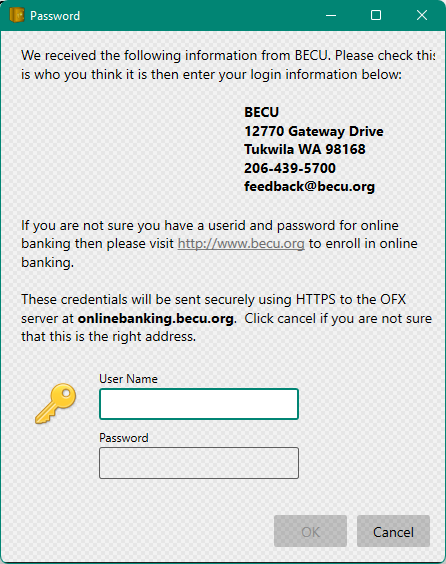
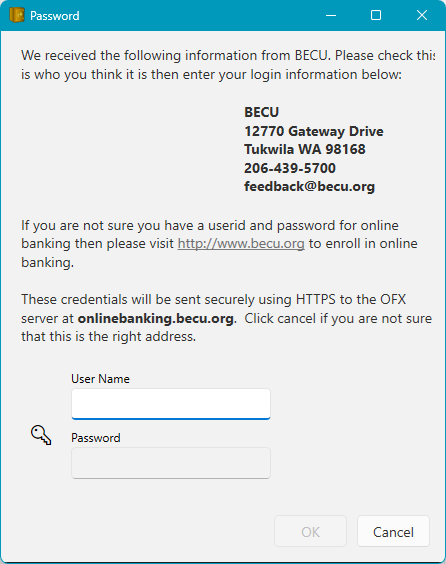
Fix OFX parsing issue so that Citibank VISA cards Connect dialog works properly. Fix online banking documentation & screenshots

diff --git a/Source/WPF/MyMoney/Dialogs/OnlineAccountDialog.xaml b/Source/WPF/MyMoney/Dialogs/OnlineAccountDialog.xaml
@@ -14,8 +14,8 @@
         Title="Online Account"  
         WindowStartupLocation="CenterOwner" 
         WindowStyle="ToolWindow"
-        SizeToContent="WidthAndHeight" 
-        MinWidth="700"
+        SizeToContent="Height" 
+        MinWidth="700" Width="850"
         d:DesignHeight="600" d:DesignWidth="900">
 
     <Window.Resources>

diff --git a/Source/WPF/MyMoney/Ofx/Ofx.cs b/Source/WPF/MyMoney/Ofx/Ofx.cs
@@ -6,7 +6,6 @@ using System.ComponentModel;
 using System.Diagnostics;
 using System.IO;
 using System.Linq;
-using System.Net;
 using System.Net.Http;
 using System.Net.Http.Headers;
 using System.Net.NetworkInformation;
@@ -348,7 +347,7 @@ namespace Walkabout.Ofx
             settings.ProhibitDtd = false;
 #pragma warning restore 618
             settings.ValidationType = ValidationType.None;
-            using (XmlReader reader = new StringTrimmingXmlReader(XmlReader.Create(fs, settings)))
+            using (XmlReader reader = XmlReader.Create(fs, settings))
             {
                 return XDocument.Load(reader);
             }
@@ -1025,43 +1024,6 @@ NEWFILEUID:{1}
             }
         }
 
-        private string RemoveIndents(string msg)
-        {
-            StringBuilder sb = new StringBuilder();
-            foreach (string line in msg.Split('\n'))
-            {
-                sb.Append(line.Trim());
-                sb.Append("\n");
-            }
-            return sb.ToString();
-        }
-
-        private static string GetHttpHeaders(HttpWebResponse response)
-        {
-            string headers = string.Empty;
-            WebHeaderCollection col = response.Headers;
-            foreach (string key in col.AllKeys)
-            {
-                headers += key + "=" + col[key] + "<br/>";
-            }
-            return headers;
-        }
-
-        private static string GetResponseBody(HttpWebResponse resp)
-        {
-            try
-            {
-                using (StreamReader sr = new StreamReader(resp.GetResponseStream()))
-                {
-                    return sr.ReadToEnd();
-                }
-            }
-            catch
-            {
-                return null;
-            }
-        }
-
         private static void EnsurePathExists(string path)
         {
             if (!Directory.Exists(path))
@@ -1310,6 +1272,7 @@ NEWFILEUID:{1}
         {
             try
             {
+                StripWhitespace(doc);
                 OFX ofx;
                 XmlSerializer s = new XmlSerializer(typeof(OFX));
                 using (XmlReader r = XmlReader.Create(new StringReader(doc.ToString())))
@@ -1838,8 +1801,22 @@ NEWFILEUID:{1}
             return null;
         }
 
+        private static void StripWhitespace(XDocument doc)
+        {
+            foreach (var node in doc.DescendantNodes())
+            {
+                if (node is XText t)
+                {
+                    t.Value = t.Value.Trim();
+                }
+            }
+        }
+
         public void ProcessResponse(XDocument doc, OfxDownloadData results)
         {
+            // So we don't have to do a .Trim() on every single selected value when parsing the response.
+            StripWhitespace(doc);
+
             XElement root = doc.Root;
             if (root == null || root.Name.LocalName != "OFX")
             {
@@ -1869,7 +1846,7 @@ NEWFILEUID:{1}
                 e = doc.SelectElement("OFX/SIGNONMSGSRSV1/SONRS/STATUS/MESSAGE");
                 if (e != null)
                 {
-                    message += e.Value.Trim();
+                    message += e.Value;
                     results.AddError(this.OnlineAccount, this.Account, message);
                 }
                 return;
@@ -1920,7 +1897,7 @@ Please save the log file '{0}' so we can implement this", GetLogFileLocation(doc
                     e = child.SelectElement("*/STATUS/MESSAGE");
                     if (e != null)
                     {
-                        message += e.Value.Trim();
+                        message += e.Value;
                         results.AddError(this.OnlineAccount, this.Account, message);
                     }
                 }
@@ -3472,14 +3449,14 @@ Please save the log file '{0}' so we can implement this", GetLogFileLocation(doc
             if (statusElement != null)
             {
                 XElement sc = statusElement.Element("CODE");
-                if (sc != null && sc.Value.Trim() != "0")
+                if (sc != null && sc.Value != "0")
                 {
                     string msg = (a == null) ? string.Empty : a.Name + ": ";
                     XElement severity = statusElement.Element("SEVERITY");
                     string reason = null;
                     if (severity != null)
                     {
-                        reason = severity.Value?.Trim();
+                        reason = severity.Value;
                     }
                     XElement message = statusElement.Element("MESSAGE");
                     if (message != null)
@@ -3489,7 +3466,7 @@ Please save the log file '{0}' so we can implement this", GetLogFileLocation(doc
                             reason += ", ";
                         }
 
-                        reason += message.Value?.Trim();
+                        reason += message.Value;
                     }
                     return msg + reason;
                 }
@@ -3829,107 +3806,5 @@ Please save the log file '{0}' so we can implement this", GetLogFileLocation(doc
                 HelpLink = challengeLog
             });
         }
-
-
     }
-
-    internal class StringTrimmingXmlReader : XmlReader
-    {
-        private readonly XmlReader inner;
-        public StringTrimmingXmlReader(XmlReader inner)
-        {
-            this.inner = inner;
-        }
-
-        protected override void Dispose(bool disposing)
-        {
-            this.inner.Dispose();
-            base.Dispose(disposing);
-        }
-
-        public override XmlNodeType NodeType => this.inner.NodeType;
-
-        public override string LocalName => this.inner.LocalName;
-
-        public override string NamespaceURI => this.inner.NamespaceURI;
-
-        public override string Prefix => this.inner.Prefix;
-
-        public override string Value => this.inner.Value?.Trim();
-
-        public override int Depth => this.inner.Depth;
-
-        public override string BaseURI => this.inner.BaseURI;
-
-        public override bool IsEmptyElement => this.inner.IsEmptyElement;
-
-        public override int AttributeCount => this.inner.AttributeCount;
-
-        public override bool EOF => this.inner.EOF;
-
-        public override ReadState ReadState => this.inner.ReadState;
-
-        public override XmlNameTable NameTable => this.inner.NameTable;
-
-        public override string GetAttribute(string name)
-        {
-            return this.inner.GetAttribute(name);
-        }
-
-        public override string GetAttribute(string name, string namespaceURI)
-        {
-            return this.inner.GetAttribute(name, namespaceURI);
-        }
-
-        public override string GetAttribute(int i)
-        {
-            return this.inner.GetAttribute(i);
-        }
-
-        public override string LookupNamespace(string prefix)
-        {
-            return this.inner.LookupNamespace(prefix);
-        }
-
-        public override bool MoveToAttribute(string name)
-        {
-            return this.inner.MoveToAttribute(name);
-        }
-
-        public override bool MoveToAttribute(string name, string ns)
-        {
-            return this.inner.MoveToAttribute(name, ns);
-        }
-
-        public override bool MoveToElement()
-        {
-            return this.inner.MoveToElement();
-        }
-
-        public override bool MoveToFirstAttribute()
-        {
-            return this.inner.MoveToFirstAttribute();
-        }
-
-        public override bool MoveToNextAttribute()
-        {
-            return this.inner.MoveToNextAttribute();
-        }
-
-        public override bool Read()
-        {
-            return this.inner.Read();
-        }
-
-        public override bool ReadAttributeValue()
-        {
-            return this.inner.ReadAttributeValue();
-        }
-
-        public override void ResolveEntity()
-        {
-            this.inner.ResolveEntity();
-        }
-    }
-
 }

diff --git a/Source/WPF/Version/Version.cs b/Source/WPF/Version/Version.cs
@@ -6,5 +6,5 @@ using System.Reflection;
 // And also sync this with the MSIX package manifest in
 // ~\MyMoney.Net\Source\WPF\MoneyPackage\Package.appxmanifest
 
-[assembly: AssemblyVersion("2.1.0.2")]
-[assembly: AssemblyFileVersion("2.1.0.2")]
+[assembly: AssemblyVersion("2.1.0.3")]
+[assembly: AssemblyFileVersion("2.1.0.3")]

diff --git a/docs/Accounts/OnlineBanking.md b/docs/Accounts/OnlineBanking.md
@@ -38,11 +38,15 @@ If you enter the right authentication information then you should see your onlin
 
 ![](../Images/Online%20Banking5.png)
 
-![](../Images/Online%20Banking6.png) ![](../Images/Online%20Banking7.png)
 
-The blue question mark means the account numbers didn't match any of your existing accounts.
-Click this question mark button to add this account to your list of accounts. 
+The question mark icon means the account number didn't match any of your existing accounts. Click
+this question mark button to find the matching account or add this account to your list of accounts.
+
+![](../Images/Online%20Banking6.png)
+
 If the account was found in your local database you will see a green check mark instead:
+
+![](../Images/Online%20Banking7.png)
 
 If you were expecting a green check mark, but instead see a blue question mark for a given account, then it means your account numbers don't match what was downloaded from your bank. You can go back to your Account Properties to fix your account number, then try again.  Sometimes a financial institution might add or remove a dash in the account number.   See [Setup Accounts](SetupAccounts.md)
 
@@ -56,27 +60,21 @@ To set this up, edit the "Name" field of the OnlineAccount dialog so it is uniqu
 When you click Connect you will then be prompted for new credentials, type in the different credentials. 
 
 **Deselecting Accounts**
-Sometimes (for example, when the accounts are linked at the financial institution) the online bank will return both accounts again when you login with the new credentials and so you will see two green checkmarks like this:
+
+You can remove the online banking connection for a given account by clicking the checkmark
+icon to toggle the state to "disconnected" and this still stop that account from receiving
+future updates when you synchronize online accounts:
 
 ![](../Images/Online%20Banking9.png)
 
-But you may not want to do this.  If you used your work credentials, you may want to de-select your personal AMEX card by clicking the green checkmark.  You will then see this :
-
-![](../Images/Online%20Banking10.png)
-
-This will ensure that it doesn’t get confused and try and download your personal AMEX info using your work AMEX credentials.
-
 ### Downloading Statements
 
-Now when you click the download button the following tab appears at the bottom section of the app:
+Now when you click the download button the following tab appears at the bottom section of the app
+and when complete it tells you how many transactions were downloaded:
 
 ![](../Images/Online%20Banking11.png)
 
-And when complete it tells you how many transactions were downloaded:
-
-![](../Images/Online%20Banking12.png)
-
-You can click the row titled "Downloaded 1 new transactions" to see just those transactions that were downloaded.  From there you can add missing [Category](../Basics/Categories.md) information.  They will stay **bold**  as a reminder that you need to review them .  A good practice is to only accept the ones you have receipts for.  For example, I recently found a transaction for several thousand dollars for the purchase of a painting in Denmark on my credit card.  I had no recollection of this transaction, nor any receipt, and was able to quickly inform my credit card company and start the fraud investigation the same day the charge appeared in my downloaded transactions.  The bold highlighting helps make these new 'unverified' transactions more visible.
+You can click the row titled "Downloaded 10 new transactions" to see the transactions that were downloaded.  From there you can add missing [Category](../Basics/Categories.md) information.  They will stay **bold**  as a reminder that you need to review them.  A good practice is to only accept the ones you have receipts for.  For example, I recently found a transaction for several thousand dollars for the purchase of a painting in Denmark on my credit card.  I had no recollection of this transaction, nor any receipt, and was able to quickly inform my credit card company and start the fraud investigation the same day the charge appeared in my downloaded transactions.  The bold highlighting helps make these new 'unverified' transactions more visible.
 
 The first download will get as much data as is available from the online service.  If you need more history you may be able to manually download OFX, QFX or QIF files from your bank's website and then use File/Import… to import those in the money program.    You can also import OFX, QFX or QIF files from other financial software packages if you have the history there.  The **OFX or QFX format**  is preferred, QIF is harder to merge because it doesn't contain account information. 
 
@@ -84,7 +82,7 @@ Sometimes the OFX service might be down for maintenance, and you will get an err
 
 ![](../Images/Online%20Banking13.png)
 
-When this happens you can click the "Details" link to find out more about what happened, sometimes this contains a message from the bank as to why the service is unavailable.   If this keeps happening, you can use the X button to remove the online account and stop trying.  You can manually remove the online connection by clearing the Online Account field in your Account Properties dialog.
+When this happens you can click the "Details" link to find out more about what happened, sometimes this contains a message from the bank as to why the service is unavailable.   If this keeps happening, you can deselect the account as shown above.  You can also manually remove the online connection by clearing the Online Account field in your Account Properties dialog.
 
 ### Download Range
 By default for new accounts the program requests the last 30 days.  After the first download it requests new transactions from the last time you clicked "Download".  But if you need to you can reset the "**Last Download** " date using the Account Properties dialog.  See [Setup Accounts](SetupAccounts.md).

diff --git a/docs/Basics/Transfers.md b/docs/Basics/Transfers.md
@@ -8,8 +8,8 @@ Pick the account you are transferring money to and enter the amount.  A matchin
 
 You can use F12 to navigate back and forth between the two sides of the transfer.
 
-You can also use F12 to create a transfer, if you are located on a transaction that is not yet a transfer, but should be and there is a matching transfer in another account it will prompt you to create
-the transfer for the matching transaction.
+You can also use F12 to create a transfer, if you are located on a transaction that is not yet a transfer, but should be.  If there is a matching transaction in another account it will prompt you to create the transfer for the matching transaction. This can be useful when need to fix transfers that
+are downloaded from a connected [online bank account](../Accounts/OnlineBanking.md).
 
 You can also do transfers from a Split, in fact, this is usually the only time you would use the Payee column in a Split:
 
@@ -17,7 +17,7 @@ You can also do transfers from a Split, in fact, this is usually the only time y
 
 This is handy if you deposit a bunch of checks as one deposit.
 
-What you cannot do is have a split transfer go to a split on the other side of that transfer.  But I have never found the need for that sort of thing.
+What you cannot do is have a split transfer go to a split on the other side of that transfer.
 
 
 

diff --git a/docs/Accounts/KnownOFXIssues.md b/docs/Accounts/KnownOFXIssues.md
@@ -3,7 +3,7 @@
 If you have trouble getting Online Banking working with your bank you may be able to correct the problem by simply opening the Online Account properties and re-connecting.
 
 You can also sometimes find updated OFX connection information here:
-[https://wiki.gnucash.org/wiki/OFX_Direct_Connect_Bank_Setting](https://wiki.gnucash.org/wiki/OFX_Direct_Connect_Bank_Setting)
+[https://wiki.gnucash.org/wiki/OFX_Direct_Connect_Bank_Settings](https://wiki.gnucash.org/wiki/OFX_Direct_Connect_Bank_Settings)
 
 The following known errors are being returned from 74 OFX addresses.  The first 22 are because MyMoney does not yet have an implementation of the OFX TYPE1 security protocol.  Once this work is completed, we should be able to talk to these banks. 
 
